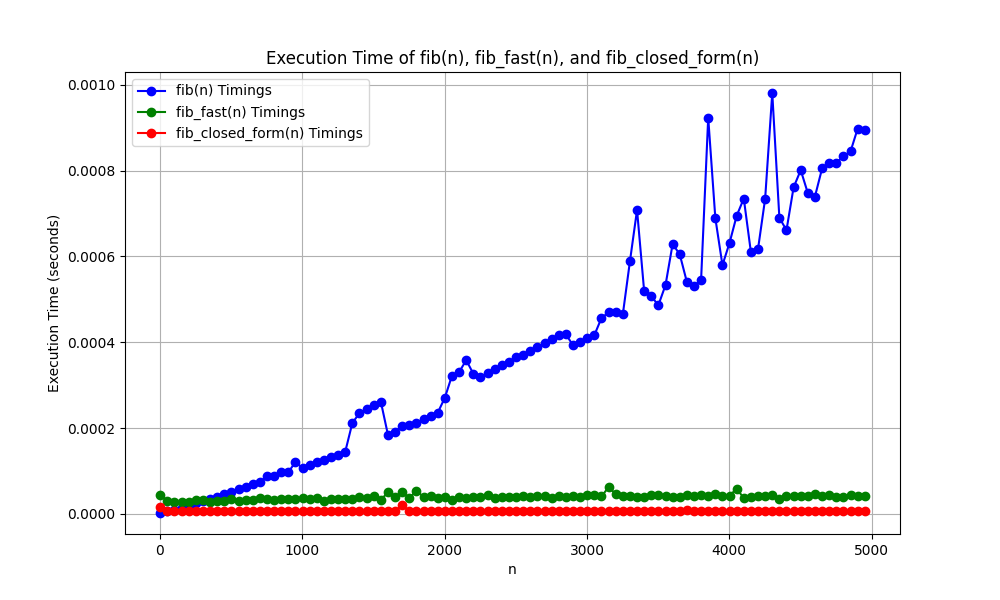
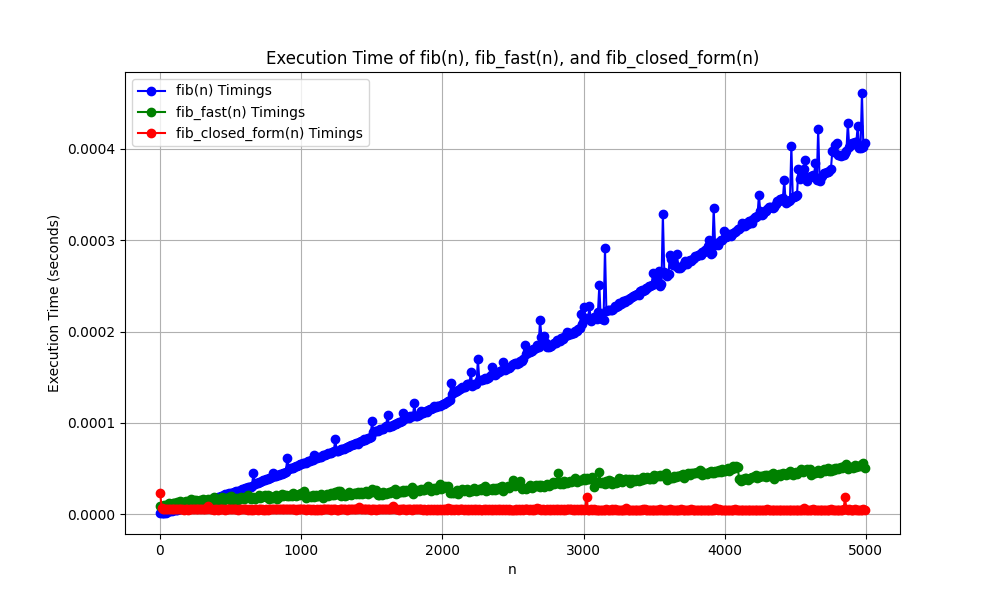
Implement a native Python implementation of the M matrix So as to avoid overflow possiblities with numpy-128 bit float.
The golden ratio based formula still uses them because it is a
floating point value and there is no way getting around it.
But it seems at least for n=5000, 128-bit float will work.

diff --git a/fast_fibonacci.py b/fast_fibonacci.py
@@ -1,24 +1,57 @@
 import matplotlib.pyplot as plt
 import numpy as np
 
-M = np.array([[1,1], [1,0]], dtype=np.float128)
+# Using 128 bit floats to handle largish values.
+# It seems at least for benchmarking upto first 5000 Fibonacci
+# numbers, 128-bit float works
 TAO_1 = np.float128((1 + np.sqrt(5)) / 2)
 TAO_2 = np.float128((1 - np.sqrt(5)) / 2)
 INV_SQRT_FIVE =  1 / np.sqrt(5)
 
+"""
+A hacky python implementation of the matrix M
+Python has arbitrary precision integers which makes it
+easier to compute large values without overflowing.
+"""
+class M:
+    def __init__(self, values=None):
+        if not values:
+            self.values = [[1, 1], [1, 0]]
+        else:
+            self.values = values
 
-def _comput_M_n(n: int) -> np.ndarray:
-    return np.linalg.matrix_power(M, n)
 
+    def exp(m, n: int):
+        z = result = None
+        while n > 0:
+            z = m if z is None else z.mult(z) 
+            n, bit = divmod(n, 2)
+            if bit:
+                result = z if result is None else z.mult(result)
+        return result
+
+    def mult(self, x):
+        values = [[0, 0], [0, 0]]
+        values[0][0] = self.values[0][0] * x.values[0][0] + self.values[0][1] * x.values[1][0]
+        values[0][1] = self.values[0][0] * x.values[1][0] + self.values[0][1] * x.values[1][1]
+
+        values[1][0] = self.values[1][0] * x.values[0][0] + self.values[1][1] * x.values[1][0]
+        values[1][1] = self.values[1][0] * x.values[1][0] + self.values[1][1] * x.values[1][1]
+        return M(values)
+    
+    def __repr__(self):
+        return f"M([[{self.values[0][0]}, {self.values[0][1]}], [{self.values[1][0]}, {self.values[1][1]}]])"
+    
 
 def fib_fast(n: int) -> int:
-    M_n = _comput_M_n(n)
-    result = np.matmul(M_n, np.array([1, 0]))
+    M_n: M = M().exp(n)
+    result = []
+    result.append(M_n.values[0][0] * 1 + M_n.values[0][1] * 0)
+    result.append(M_n.values[1][0] * 1 + M_n.values[1][1] * 0)
     return result[1]
 
 def fib_closed_form(n: int) -> int:
     return INV_SQRT_FIVE * (np.power(TAO_1, n) - np.power(TAO_2, n))
-
 
 def fib(n: int) -> int:
     if n == 0:
@@ -39,7 +72,7 @@ if __name__ == '__main__':
     # collect timings for fib and fib_fast for n going from 2 to 5000 in increments of 10
     import time
     n_max = 5000
-    n_inc = 50
+    n_inc = 10
     fib_timings = {}
     fib_fast_timings = {}
     fib_closed_form_timings = {}
@@ -50,12 +83,13 @@ if __name__ == '__main__':
         fib_timings[n] = end - start
 
 
-
     for n in range(2, n_max+1, n_inc):
         start = time.time()
         fib_fast_res = fib_fast(n) 
         end = time.time()
         fib_fast_timings[n] = end - start
+        # fib_closed_res = fib_closed_form(n)
+        # assert np.isclose(np.float128(fib_fast_res), fib_closed_res)
 
 
     for n in range(2, n_max+1, n_inc):
@@ -73,12 +107,14 @@ if __name__ == '__main__':
     fib_fast_timings_values = list(fib_fast_timings.values())
     fib_closed_form_timings_values = list(fib_closed_form_timings.values())
 
+
     # Create the plot
     plt.figure(figsize=(10, 6))
     plt.plot(n_values, fib_timings_values, label='fib(n) Timings', marker='o', linestyle='-', color='blue')
     plt.plot(n_values, fib_fast_timings_values, label='fib_fast(n) Timings', marker='o', linestyle='-', color='green')
     plt.plot(n_values, fib_closed_form_timings_values, label='fib_closed_form(n) Timings', marker='o', linestyle='-', color='red')
 
+    # plt.yscale('log')
     # Label the axes and add a legend
     plt.xlabel('n')
     plt.ylabel('Execution Time (seconds)')
